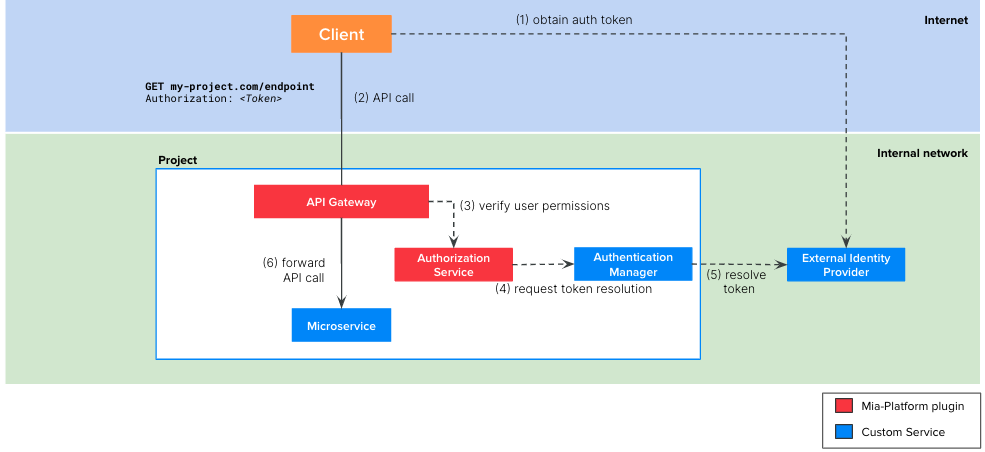
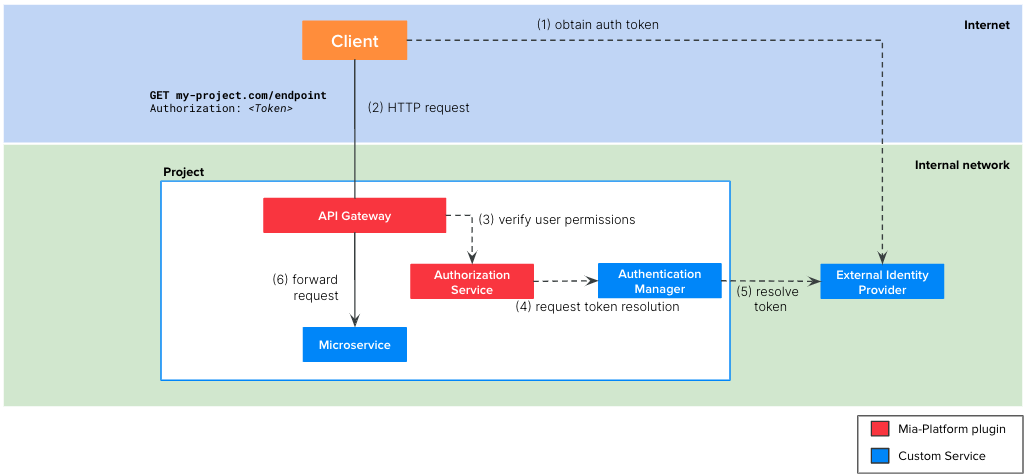
reword scenario 2

Changed region(s): [[0.0, 0.0, 1.0, 0.8053], [0.0, 0.8363, 1.0, 1.0]]

diff --git a/docs/getting-started/tutorials/architecture/auth/external-idp.md b/docs/getting-started/tutorials/architecture/auth/external-idp.md
@@ -4,25 +4,27 @@ title: Integrate an external Identity Provider
 sidebar_label: External Identity Provider
 ---
 
-In order to provide a higher security level, you may need to protect your endpoints using an external Identity Provider (IDP) such as Okta, Keycloak, etc.
+In order to provide a higher security level, you may need to protect your endpoints using an **external Identity Provider (IdP)** such as Okta, Keycloak, etc.  
+
+This page will guide you through the integration of an external IdP in your Mia-Platform project. 
 
 ## Definition
 
 ![Scenario2](img/auth-scenario2.png)
 
-The involved microservice of the flow at runtime are:
+The involved microservice of the flow are:
 1. `API Gateway`: Mia-Platform plugin available in [Nginx](/runtime_suite/api-gateway/10_overview.md) or [Envoy](/runtime_suite/envoy-api-gateway/overview.md)
 2. [`Authorization Service`](/runtime_suite/authorization-service/10_overview.md): Mia-Platform plugin
-3. `Authentication Manager`: a custom microservice that you need to implement. It must integrate with your external IDP to resolve the user token.
+3. `Authentication Manager`: a custom microservice that you need to implement. It must integrate with your external IdP to resolve the user token.
 4. The microservice connected to the endpoint 
 
-The picture above illustrates the auth flow at runtime:
-1. The client, be it a web application or backend software, need to implement the authentication flow required by the IDP to obtain a valid token. With this token, the client will be able to call the endpoints of your project.
+The picture above illustrates the steps of the auth flow:
+1. The client, be it a web application or a backend software, needs to implement the authentication flow required by the IdP to obtain a valid token. With this token, the client will be able to call the endpoints of your project.
 2. The client calls the endpoint of your project, including the valid token in the request. Usually this token is placed in the `Authorization` header but it can be placed in other headers or cookies.
 3. The `API Gateway` calls the `Authorization Service` which is in charge to verify if the user who made the request is authorized to access to the requested endpoint.
 4. To do so, the `Authorization Service` requests to the `Authentication Manager` to resolve the token
-5. The `Authentication Service` resolves the token by contacting the external IDP and returns the user payload to the `Authorization Service` that can now check if the user belongs to the authorized groups 
-6. If the verification performed by the `Authentication Service` is successful, then the `API Gateway` forwards the API call the right microservice of the project. Note that the target microservice will receive the following additional headers that could be useful for their business logic:
+5. The `Authentication Service` resolves the token by contacting the external IdP and returns the user payload to the `Authorization Service` that can now check if the user belongs to the authorized groups 
+6. If the verification performed by the `Authentication Service` is successful, then the `API Gateway` forwards the original HTTP request the right microservice of the project. Note that the target microservice will receive the following additional headers that could be useful for their business logic:
   
   | Header              | Description                                                                                |
   | --------------------| ------------------------------------------------------------------------------------------ |
@@ -41,7 +43,7 @@ In order to implement the flow depicted above, you can perform the following ste
     - Click on `Microservices`
     - Click on `Create a Microservice` and select `From Markeplace`
     - Choose your preferred template to start coding your custom Authentication Service
-    - Implement the `/userinfo` endpoint. It must resolve the token on the external IDP and then return as response body a JSON object with at least the `userID` and the `groups`. An example of response is:
+    - Implement the `/userinfo` endpoint. It must resolve the token on the external IdP and then return as response body a JSON object with at least the `userID` and the `groups`. An example of response is:
       ```json
       {
         "userID": "123",
@@ -65,7 +67,7 @@ In order to implement the flow depicted above, you can perform the following ste
       | USER_PROPERTIES_TO_PROXY       | userID,groups                                                                |
 
 3. Secure the endpoint
-    - Select the endpoint you want to secure in the `Endpoints` section
+    - Select the endpoint you want to secure in the `Endpoints` section of your project
     - Use the `User Group Permission` textbox to choose the user groups authorized to call the endpoint. For example, if you want to allow access only to `admin` or `users` you should insert:
       ```
       groups.admin || groups.users
